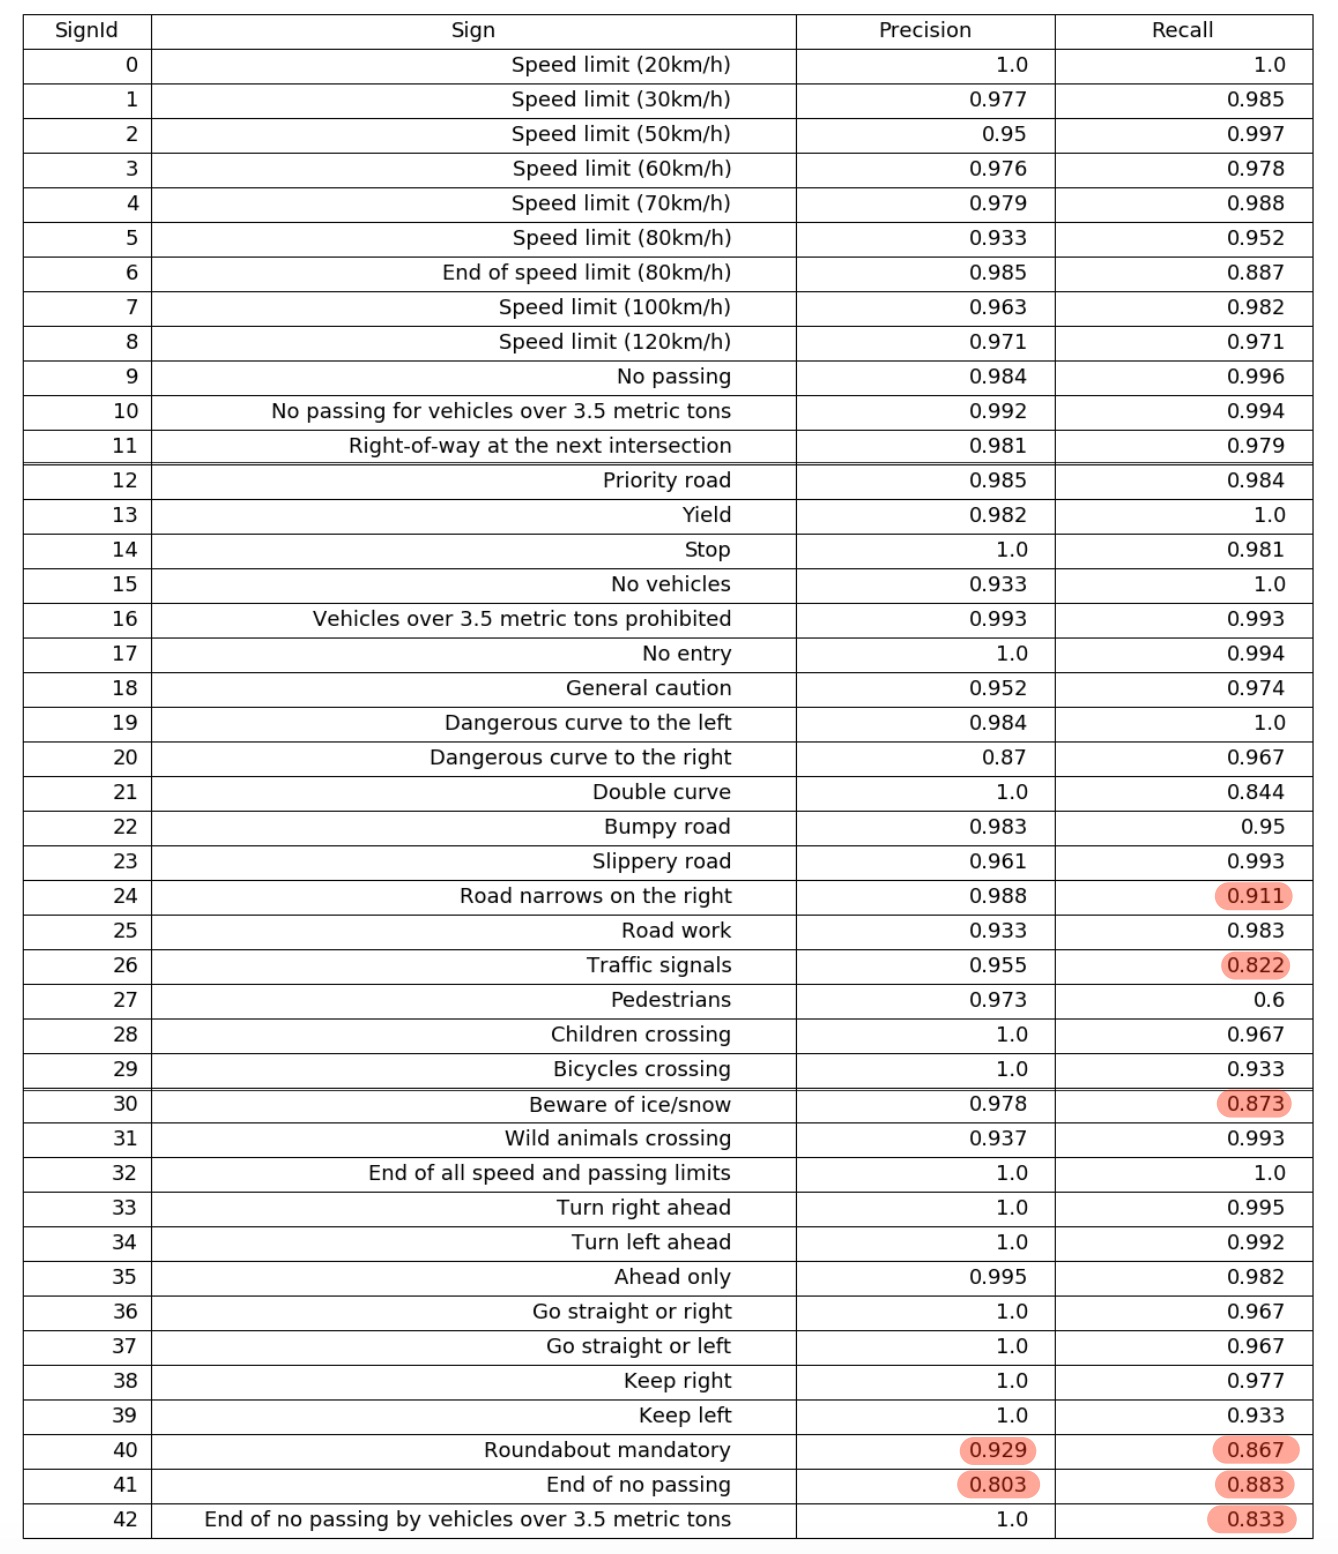
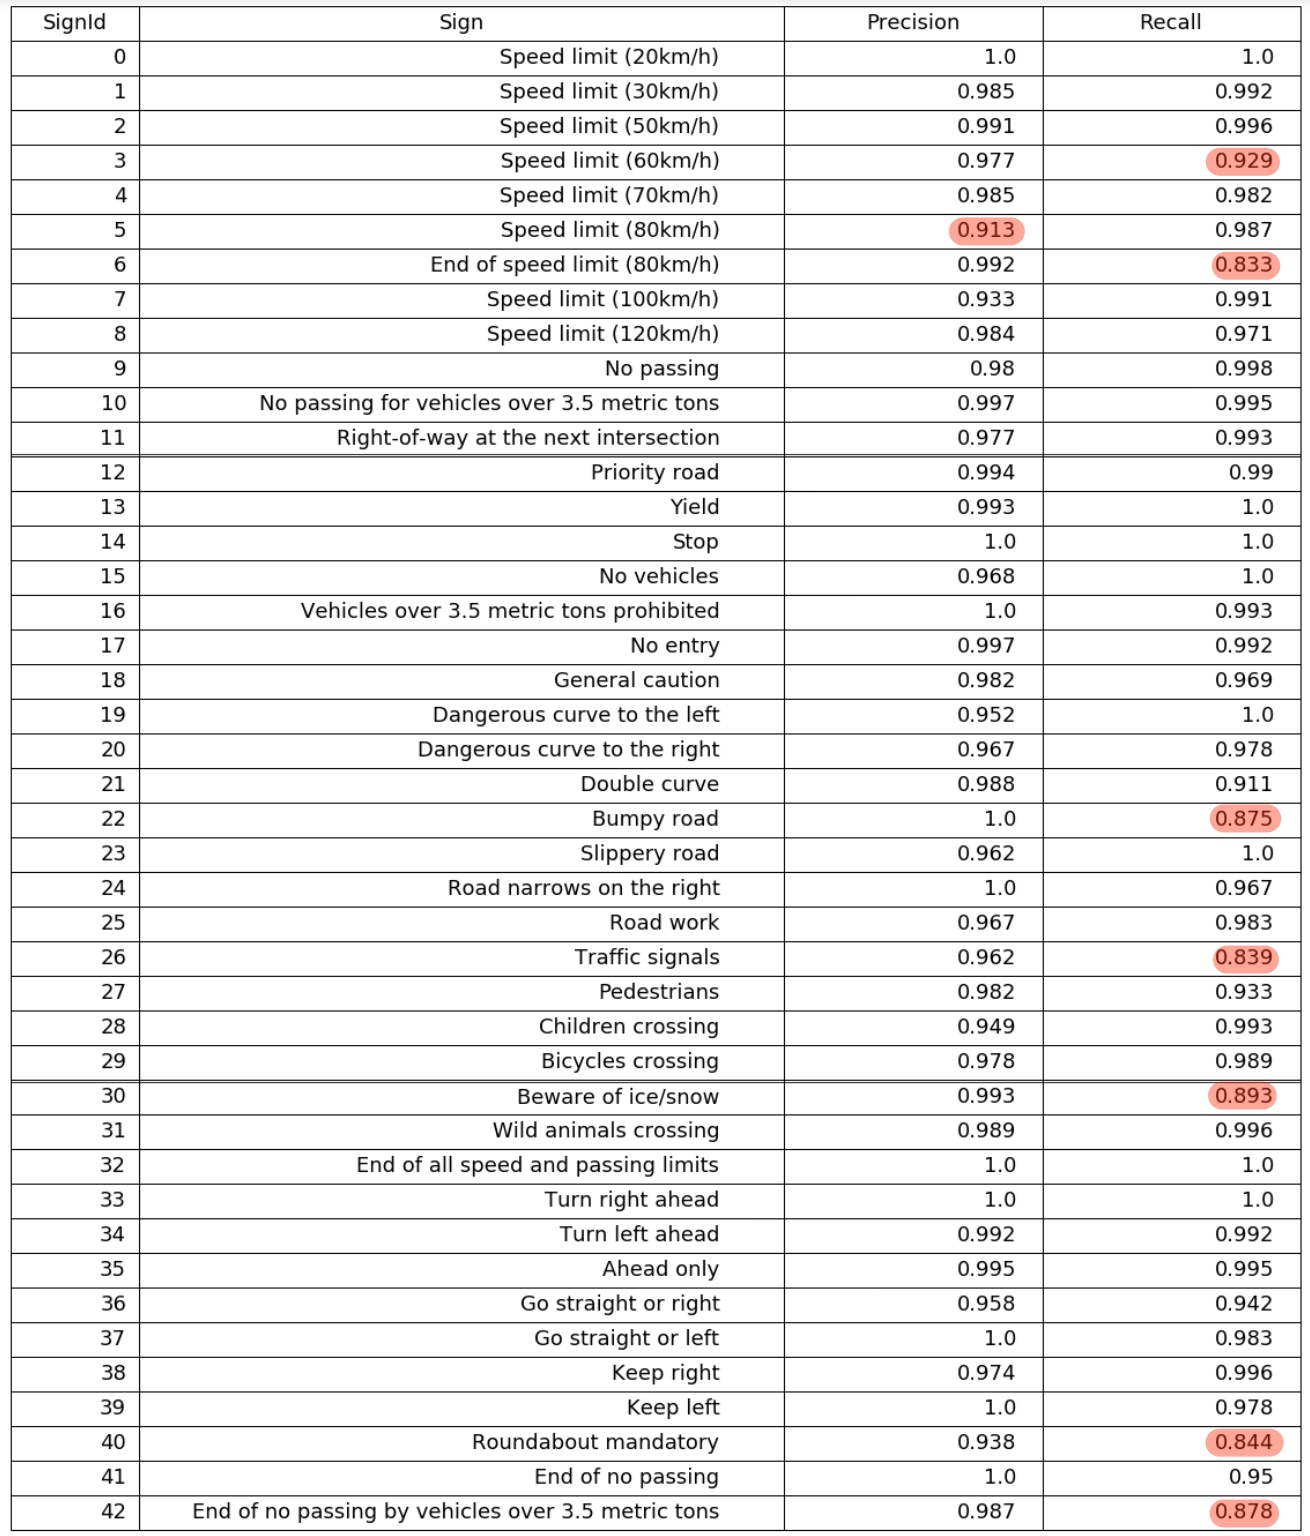
Report Final

Changed region(s): [[0.0, 0.0, 1.0, 1.0]]

diff --git a/traffic_sign_classifier/report.md b/traffic_sign_classifier/report.md
@@ -1,6 +1,6 @@
 # Project Report: Traffic Sign Recognition
 
-Objective of the project is to demonstrate the use of deep learning, in particular the use of convolutional neural networks for the task of classifying German traffic signs. Deep learning has been pretty successfully used in recent years to get state of the art performance on image classification tasks (most recently capsule networks from Hinton et al). The rest of the document is organized into:
+Objective of the project is to demonstrate the use of deep learning, in particular the use of convolutional neural networks for the task of classifying German traffic signs. Deep learning has been pretty successfully used in recent years to get state of the art performance on image classification tasks (most recently capsule networks from Hinton et al). The rest of the document is organized as:
 
 1. [Problem setup](#problem_setup)
 2. [Data exploration](#data_exploration)
@@ -29,11 +29,11 @@ Images provided in the data set are color images of size 32x32 pixels. There are
 ![](report_images/training_label_distribution.jpg)
 
 ## <a name="preprocessing">Preprocessing</a>
-Images are preprocessed before fed into the model for training and testing. Preprocessing is done so that the model can fit the data easily and does not have to learn the preprocessing logic. While this makes it easier to train, it may also be the case that preprocessing that we have chosen here is not ideal. A much larger/complex model and with more computational resources, we may be able to let the model learn the necessary preprocessing logic. Preprocessing steps we have chosen include:
+Images are preprocessed before fed into the model for training and testing. Preprocessing is done so that the model can fit the data easily and does not have to learn the preprocessing logic. While this makes it easier to train, it may also be the case that preprocessing that is chosen here is not ideal. With a much larger/complex model and  more computational resources, one may be able to let the model learn the necessary preprocessing logic. Preprocessing steps we have chosen include:
 
 1. Resizing the 32x32 images to 80x80 images with Lanczos interpolation
 
-   Resizing images to using Lanczos interpolation tends to give more details to the image visually. The idea is that this interpolation will help the model to learn more about the shape of the signals.
+   Resizing images using Lanczos interpolation tends to give more details to the image visually. The idea is that this interpolation will help the model to learn more about the shape of the signals. It also allows for convolutions at a subpixel level (Because 32x32 image is converted to 80x80, and assuming interpolation does the right job, we have 2.5 pixels per origin pixel).
 
 2. Unsharp masking to sharpen the images
 
@@ -45,13 +45,13 @@ Images are preprocessed before fed into the model for training and testing. Prep
 
 4. Contrast enhancement using Contrast Limited Adaptive Histogram Equalization
 
-   Improving contrast by histogram equalization helps preserve the shape while making the objects in the images more visually pronounced.
+   Improving contrast by histogram equalization helps preserve the shape while making the objects in the images more visually pronounced. This should help with better learning good features for different signal types.
 
 #### Sample of images after preprocessing
 ![](report_images/preprocessed_images.jpg)
 One can see how preprocessed images are more clearer and detailed than the original images.
 
-Also one can notice that the label distribution in the training set has some labels that are under-represented. To compensate, we sample more images from those under-represented image classes. Therefore the new training image set distribution has most of the image classes reasonably represented. Here reasonable is the average number of images per class before sampling.
+Also one can notice that the label distribution in the training set has some labels that are under-represented. To compensate, we sample more images from those under-represented image classes. Therefore the new training image set distribution has most of the image classes reasonably represented. Under-represented classes are sampled so that every image class contains atleast k images (k is the average number of images per class before sampling).
 
 #### Distribution of preprocessed images after sampling under-represented image classes
 ![](report_images/preprocessed_images_distribution.jpg)
@@ -62,7 +62,7 @@ The model used has three layers of convolution/max-pooling followed by three ful
 #### Model Architecture
 ![](report_images/model_architecture.jpg)
 
-The model is inspired by LeNet and ResNet. ResNet has the idea that deeper networks should not perform worse than a corresponding shallow network. The shortcut layer1 and layer3 output is a resnet identity connection. The 1x1 convolution is used to project layer1 output to match layer3 output for concatenation. The resnet idea is also similar to the multi-stage architecture proposed in Traffic Sign Recognition with Multi-Scale Convolutional Networks [Pierre Sermanet and Yann LeCun]. Fully connected layers have 40% dropouts to prevent overfitting.
+The model is inspired by LeNet and ResNet. ResNet has the idea that deeper networks should not perform worse than a corresponding shallow network. The shortcut between layer1 and layer3 output is a resnet identity connection. The 1x1 convolution is used to project layer1 output to match layer3 output for concatenation. The resnet idea is also similar to the multi-stage architecture proposed in Traffic Sign Recognition with Multi-Scale Convolutional Networks [Pierre Sermanet and Yann LeCun]. Fully connected layers have 40% dropouts to prevent overfitting.
 
 Attempt was made to use inception module [Christian Szegedy et al, Going deeper with convolutions] but it was extremely time consuming to train even with a GPU.
 
@@ -72,28 +72,30 @@ The model described above is setup to minimize for cross-entropy of ground truth
 1. Learning rate
 2. Batch size
 4. Epochs
-5. Dropout percentage [keep_prob = 0.6]
-6. Alpha for leaky relu [0.2]
-7. Betas for Adam [defaults]
+5. Regularization constant
+6. Dropout percentage [keep_prob = 0.6]
+7. Alpha for leaky relu [0.2]
+8. Betas for Adam [defaults]
 
 A very simple hyper parameter search is done using a grid search for (best result in bold):
 1. Learning rate [0.0001, 0.0005, **0.001**, 0.005, 0.01, 0.05]
 2. Batch size [**32**, 64, 128, 256]
 3. Epochs [20, **30**, 40]
+4. Regularization [**0.0**, 0.0001, 0.001, 0.01]
 
 **Model Evolution**
 1. LeNet with minor modifications to take in 3 channel input and output of 43 labels. (88.5%)
 2. LeNet with Grayscale: (92.2%)
-2. LeNet with Grayscale + CLAHE: (94.7%)
-2. LeNet with Grayscale + Sharpening: (93.9%)
-2. More layers (3 convolution layers) + Grayscale + CLAHE Sharpening: (97.2%)
-2. Dropout + More layers (3 convolution layers) + Grayscale + CLAHE + Sharpening: (98.2%)
-2. Dropout + More layers (3 convolution layers) + Resize 80x80 + Grayscale + CLAHE Sharpening: (98.6%)
-2. Resnet + Dropout + More layers (3 convolution layers) + Resize 80x80 + Grayscale + CLAHE Sharpening: (98.6%)
-2. Regularization + Resnet + Dropout + More layers (3 convolution layers) + Resize 80x80 + Grayscale + CLAHE Sharpening: (98.4%).
+3. LeNet with Grayscale + CLAHE: (94.7%)
+4. LeNet with Grayscale + Sharpening: (93.9%)
+5. More layers (3 convolution layers) + Grayscale + CLAHE Sharpening: (97.2%)
+6. Dropout + More layers (3 convolution layers) + Grayscale + CLAHE + Sharpening: (98.2%)
+7. Dropout + More layers (3 convolution layers) + Resize 80x80 + Grayscale + CLAHE Sharpening: (98.6%)
+8. Resnet + Dropout + More layers (3 convolution layers) + Resize 80x80 + Grayscale + CLAHE Sharpening: (98.8%)
+9. Regularization + Resnet + Dropout + More layers (3 convolution layers) + Resize 80x80 + Grayscale + CLAHE Sharpening: (98.4%).
 
 #### Validation and test performance
-For the above parameter setting, the best validation set accuracy is 98.7%. For the model, the accuracy on test set is 97.2%. The overall accuracy is well above the required 93.0%. But lets see per class precision and recall for the same model. Precision and recall that are below 93% are highlighed in red.
+For the above parameter setting, the best validation set accuracy is 98.8%. For the model, the accuracy on test set is 97.9%. The overall accuracy is well above the required 93.0%. But lets see per class precision and recall for the same model. Precision and recall that are below 93% are highlighed in red.
 ![](report_images/per_class_pr.jpg)
 
 #### Performance on new images
@@ -101,7 +103,7 @@ Two classes of new images are considered.
 1. Perfect images of traffic signals
 2. Photos of traffic signals
 
-The model is able to do perfect prediction (100% accuracy) on the perfect images while on the photos, the observed accuracy is 80% (4 out of 5 images rightly classified).
+The model is able to do correct predictions (100% accuracy) on both perfect images and on photo images.
 
 **Performance on perfect images**
 ![](report_images/new_perfect_image_perf.jpg)
@@ -115,7 +117,7 @@ One can notice that the model is pretty confident about the predictions. The dif
 
 **Top-k predictions for photo images**
 ![](report_images/topk_photo_image_perf.jpg)
-In the case of photo images, the model is not very confident about pedestrian signal and slippery roads. Especially for slippery roads, the next highest prediction is pretty close. It can also be seen that recall for the pedestrian signal class is low. Although the top label is wrong, model predicts the image as pedestrian class with next highest probability.
+In the case of photo images, the model is not very confident about pedestrian signal and slippery roads. The prediction probability is < 0.26. For all other cases, the model has the correct label classification probability of > 0.95.
 
 ## <a name="model_visualization">Model Visualization</a>
 Here we visualize the convolution layers for a sample image: General Caution.
